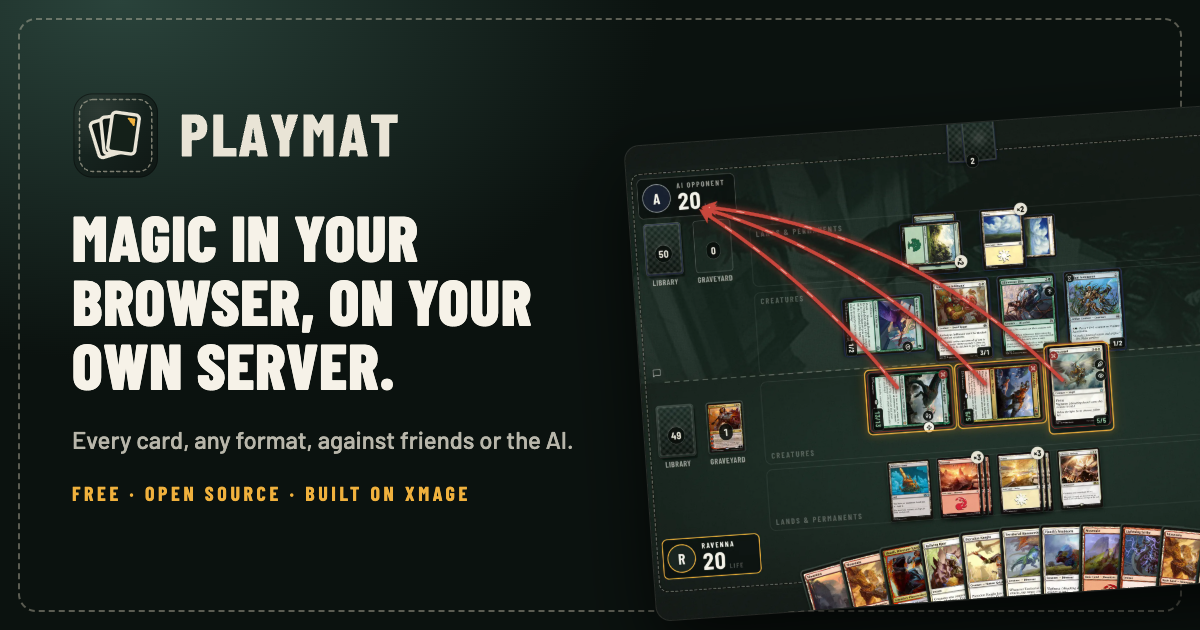
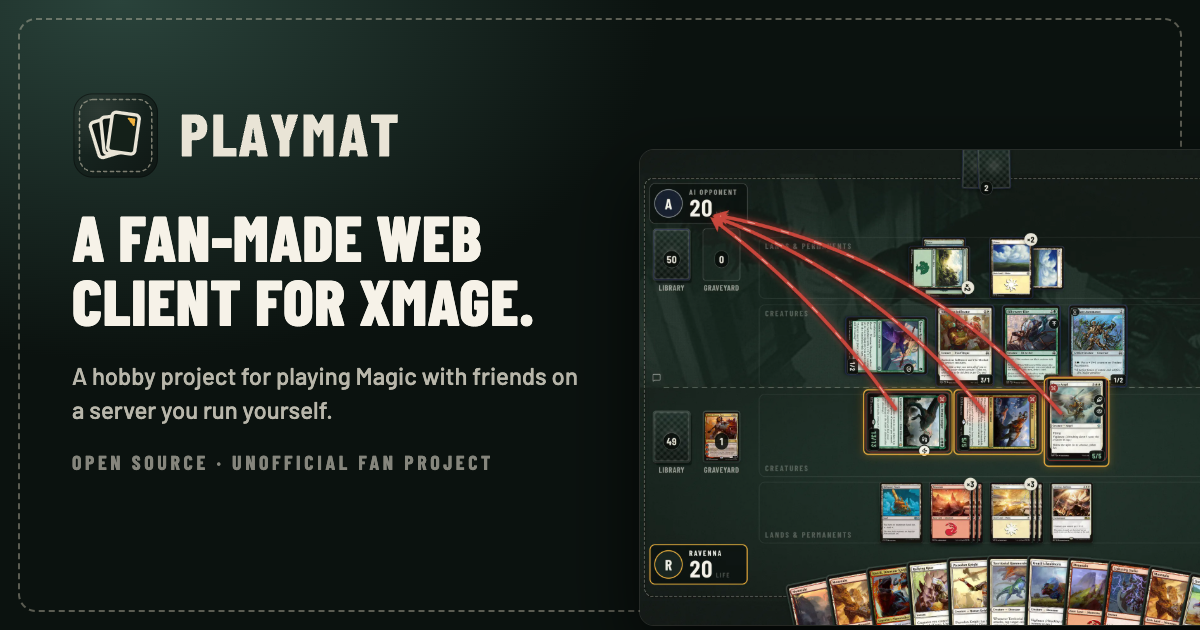
Site and readme: a fan project, not a product
Drop the slogans, calls to action and selling adjectives. The site and the
readme now say plainly what Playmat is (a hobby web client for XMage, not
affiliated with Wizards), what it does, how to run it, and who did the work.
The Career art is described as AI-generated. The share image loses its
slogan too.

Changed region(s): [[0.5242, 0.181, 1.0, 0.9952], [0.0617, 0.3317, 0.4933, 0.8143], [0.5242, 0.6333, 0.6783, 0.8143]]

diff --git a/site/index.html b/site/index.html
@@ -3,13 +3,13 @@
 <head>
   <meta charset="utf-8">
   <meta name="viewport" content="width=device-width, initial-scale=1">
-  <title>Playmat · Magic in your browser, on your own server</title>
-  <meta name="description" content="Playmat is a free, open-source, Arena-style client for the XMage rules engine: every card, any format, against friends or the AI, on a server you host yourself.">
+  <title>Playmat · a fan-made web client for XMage</title>
+  <meta name="description" content="Playmat is a fan-made, open-source web client for XMage, the Magic: The Gathering rules engine. Play against friends or the AI on a server you run yourself.">
   <meta name="theme-color" content="#0b120f">
   <link rel="icon" href="assets/brand/playmat-mark.svg" type="image/svg+xml">
   <meta property="og:type" content="website">
-  <meta property="og:title" content="Playmat · Magic in your browser, on your own server">
-  <meta property="og:description" content="An Arena-style client for the XMage rules engine: every card, any format, against friends or the AI. Free and self-hosted.">
+  <meta property="og:title" content="Playmat · a fan-made web client for XMage">
+  <meta property="og:description" content="A hobby project: a browser client for XMage, styled after MTG Arena, for playing with friends on your own server.">
   <meta property="og:url" content="https://arcanite24.github.io/playmat/">
   <meta property="og:image" content="https://arcanite24.github.io/playmat/assets/og.png">
   <meta name="twitter:card" content="summary_large_image">
@@ -28,10 +28,10 @@
       </a>
       <nav aria-label="Sections">
         <ul class="nav">
-          <li><a href="#play">Play</a></li>
+          <li><a href="#play">Playing</a></li>
           <li><a href="#career">Career</a></li>
-          <li><a href="#host">Host</a></li>
-          <li><a class="btn btn-print btn-sm" href="https://github.com/arcanite24/playmat">GitHub</a></li>
+          <li><a href="#host">Running it</a></li>
+          <li><a href="https://github.com/arcanite24/playmat">GitHub</a></li>
         </ul>
       </nav>
     </div>
@@ -40,13 +40,12 @@
   <main id="main">
     <section class="hero">
       <div class="wrap hero-copy">
-        <h1>Magic in your browser, on&nbsp;your own server.</h1>
-        <p class="lede">Playmat is an Arena-style client for the XMage rules engine. Play any of its 32,000+ cards in any
-          format against your friends or the AI, and host the whole table yourself. Free and MIT licensed.</p>
-        <div class="actions">
-          <a class="btn btn-decision" href="#host">Host your table</a>
-          <a class="btn btn-print" href="https://github.com/arcanite24/playmat">View on GitHub</a>
-        </div>
+        <h1>A fan-made web client for&nbsp;XMage.</h1>
+        <p class="lede">Playmat is a hobby project: a browser client for <a href="https://github.com/magefree/mage">XMage</a>,
+          the open-source Magic: The Gathering rules engine, styled after MTG Arena. You play against friends or XMage's
+          AI on a server you run yourself. It's free, MIT licensed, and not affiliated with Wizards of the Coast.</p>
+        <p class="status">It's a work in progress with rough edges. Bug reports and pull requests are welcome on
+          <a href="https://github.com/arcanite24/playmat">GitHub</a>.</p>
       </div>
       <div class="wrap">
         <figure class="hero-shot shot">
@@ -60,14 +59,15 @@
     <section id="play" class="feature">
       <div class="wrap feature-row">
         <div class="feature-copy">
-          <h2>One click from intent to play.</h2>
-          <p>Pick a deck and press Play. You're in a game against the AI in seconds, or send a friend an invite link and
-            sit down together. Nobody has to learn a table system first.</p>
+          <h2>Playing</h2>
+          <p>Pick a deck and press Play to start a game against the AI, or send a friend an invite link to play each
+            other.</p>
           <ul class="ticks">
             <li>Attack arrows, a visible stack and priority you can read at a glance</li>
-            <li>Smart auto-pass with stops you choose, and keyboard shortcuts</li>
+            <li>Auto-pass with the stops you choose, and keyboard shortcuts</li>
             <li>Practice mode: a goldfish opponent and any card into your hand or onto the battlefield</li>
             <li>Spectating, match history and replays of finished games</li>
+            <li>Visible keyboard focus, reduced motion respected, and no state shown by colour alone</li>
           </ul>
         </div>
         <figure class="shot">
@@ -80,11 +80,11 @@
     <section id="decks" class="feature">
       <div class="wrap feature-row flip">
         <div class="feature-copy">
-          <h2>Bring the decks you already have.</h2>
-          <p>Paste a link from Archidekt, Moxfield or another deck site, drop a list or a <code>.dck</code> file, and
-            it's on your shelf. Starter decks are waiting from the first sign-in, Commander ones included.</p>
+          <h2>Decks</h2>
+          <p>Decks come in from a link (Archidekt, Moxfield and other sites), a pasted list or a <code>.dck</code> file.
+            Every new account gets a set of starter decks, Commander ones included.</p>
           <ul class="ticks">
-            <li>Full card search by name, type, rules text, colour, cost, rarity and set</li>
+            <li>Card search by name, type, rules text, colour, cost, rarity and set</li>
             <li>Format checks, a mana curve and colour counts as you build</li>
             <li>Booster draft, sealed, Jumpstart and constructed events, with AI players in empty seats</li>
           </ul>
@@ -99,9 +99,9 @@
     <section id="career" class="career">
       <div class="wrap">
         <div class="career-head">
-          <h2>A journey for one player, with a whole card pool to earn.</h2>
-          <p>Start with a starter deck and a hundred coins. Win duels, open packs, fill your collection and graduate from
-            every format's school.</p>
+          <h2>Career mode</h2>
+          <p>An optional single-player mode. You start with a starter deck and a hundred coins, win games against the AI,
+            open packs to build a collection, and work through a school for each format.</p>
         </div>
 
         <div class="career-shots">
@@ -154,7 +154,7 @@
             <img src="assets/art/ach-graduate-9.webp" width="192" height="192" loading="lazy" alt="Achievement: graduate of every school">
             <img src="assets/art/ach-wins-250.webp" width="192" height="192" loading="lazy" alt="Achievement: 250 wins">
           </div>
-          <p class="gallery-note">61 achievements, boss portraits, school crests and sleeves, all painted for Playmat.</p>
+          <p class="gallery-note">The Career art (boss portraits, format crests, achievement icons and sleeves) is AI-generated for the project in one letterpress style.</p>
         </div>
       </div>
     </section>
@@ -166,9 +166,9 @@
                alt="The same game on a tablet in portrait: the board stacks vertically with the turn tracker across the middle.">
         </figure>
         <div class="feature-copy">
-          <h2>The same table on a tablet.</h2>
-          <p>The table reflows from a wide monitor down to a tablet in portrait. Install it as a web app, or build the
-            Android app, which keeps every card picture it has shown on the device for the next game.</p>
+          <h2>Tablets and Android</h2>
+          <p>The table reflows from a wide monitor down to a tablet in portrait. It installs as a web app, and there's
+            an Android app built from the same code that keeps card pictures on the device.</p>
           <ul class="ticks">
             <li>Any modern desktop browser</li>
             <li>Tablets in landscape and portrait, fullscreen when installed</li>
@@ -181,14 +181,14 @@
 
     <section class="more">
       <div class="wrap">
-        <h2 class="center">And everything XMage already does.</h2>
+        <h2 class="center">From XMage</h2>
+        <p class="center more-intro">Playmat is a new client, not a new engine. All of this comes from XMage:</p>
         <dl class="also">
           <div><dt>Multiplayer</dt><dd>Commander, Brawl, Oathbreaker and free-for-all games for up to ten players.</dd></div>
           <div><dt>Tournaments</dt><dd>Swiss or elimination events with drafting, sealed pools and sideboarding.</dd></div>
           <div><dt>Lobby</dt><dd>Chat, players online, profiles and a table browser to join or watch any game.</dd></div>
-          <div><dt>Rules on the server</dt><dd>Every rule and every hidden card is enforced server-side. A client can't cheat.</dd></div>
+          <div><dt>Rules on the server</dt><dd>Rules and hidden cards are handled on the server, so a client can't cheat.</dd></div>
           <div><dt>Accounts</dt><dd>Optional sign-up with passwords, ratings, moderation and admin tools for public servers.</dd></div>
-          <div><dt>Accessible</dt><dd>Visible focus, reduced motion respected, and state never shown by colour alone.</dd></div>
         </dl>
       </div>
     </section>
@@ -196,9 +196,9 @@
     <section id="host" class="host">
       <div class="wrap host-row">
         <div class="host-copy">
-          <h2>Host it on any machine with Docker.</h2>
-          <p>One Docker Compose stack runs everything. Point a domain at the machine, set a few values and start it.
-            Players open the site and sign in; nobody installs anything.</p>
+          <h2>Running it</h2>
+          <p>Playmat is meant to be self-hosted. Someone in your group runs the server with Docker Compose, on a home
+            machine for a LAN or on one with a domain, and everyone else opens the site in a browser.</p>
           <dl class="stack">
             <div><dt>xmage</dt><dd>the game server and its WebSocket bridge</dd></div>
             <div><dt>web</dt><dd>Caddy: automatic HTTPS, security headers, rate limits</dd></div>
@@ -207,7 +207,7 @@
           </dl>
           <p class="small">Also covered: private LAN servers with no domain, running behind another reverse proxy, Discord
             notifications for new tables, and capacity numbers.
-            <a href="https://github.com/arcanite24/playmat/blob/master/ops/web/README.md">Read the deployment guide</a>.</p>
+            See the <a href="https://github.com/arcanite24/playmat/blob/master/ops/web/README.md">deployment guide</a>.</p>
         </div>
         <div class="terminal" role="region" aria-label="Commands to start a server">
 <pre><code><span class="c"># get the code</span>
@@ -227,10 +227,10 @@ docker compose -f ops/web/docker-compose.yml up -d --build</code></pre>
       <div class="wrap xmage-box zone">
         <img src="assets/brand/playmat-mark.svg" width="72" height="72" alt="">
         <div>
-          <h2>Built on XMage.</h2>
-          <p>The rules engine, tens of thousands of card implementations and the AI are the work of the XMage project and
-            its contributors since 2010. Playmat merges XMage every month, so new sets and fixes arrive here too.
-            Card pictures and data come from Scryfall.</p>
+          <h2>Credits</h2>
+          <p>The rules engine, the card implementations and the AI are the work of the XMage project and its
+            contributors since 2010; Playmat merges XMage regularly to pick up new sets and fixes. Card pictures and data
+            come from Scryfall. Magic: The Gathering belongs to Wizards of the Coast.</p>
           <p><a href="https://github.com/magefree/mage">XMage on GitHub</a> · <a href="https://scryfall.com">Scryfall</a></p>
         </div>
       </div>

diff --git a/site/style.css b/site/style.css
@@ -3,7 +3,6 @@
   --decision: #f0b13d;
   --decision-strong: #ffc65a;
   --decision-ink: #1d1406;
-  --decision-glow: rgb(240 177 61 / 0.35);
   --ink: #e9e4d6;
   --ink-strong: #f6f2e8;
   --ink-soft: rgb(233 228 214 / 0.78);
@@ -88,7 +87,7 @@ h1, h2, h3 {
   text-wrap: balance;
 }
 
-h1 { font-size: clamp(2.75rem, 7vw, 5.6rem); }
+h1 { font-size: clamp(2.4rem, 5.6vw, 4.4rem); }
 h2 { font-size: clamp(2rem, 4.2vw, 3.25rem); }
 h3 { font-size: 1.35rem; font-weight: 700; letter-spacing: 0.04em; }
 
@@ -110,39 +109,6 @@ p { margin: 0; text-wrap: pretty; }
 }
 .skip:focus { top: 12px; }
 
-/* ---------- buttons ---------- */
-
-.btn {
-  display: inline-flex;
-  align-items: center;
-  justify-content: center;
-  height: 52px;
-  padding: 0 26px;
-  border-radius: var(--radius-control);
-  font: 700 1.2rem/1 var(--font-print);
-  letter-spacing: 0.08em;
-  text-transform: uppercase;
-  text-decoration: none;
-  white-space: nowrap;
-  transition: transform 120ms ease, box-shadow 120ms ease, background-color 120ms linear;
-}
-
-.btn-decision {
-  background: linear-gradient(180deg, var(--decision-strong), var(--decision));
-  color: var(--decision-ink);
-  box-shadow: inset 0 1px 0 rgb(255 255 255 / 0.45), inset 0 -2px 0 rgb(0 0 0 / 0.18), 0 0 0 1px rgb(0 0 0 / 0.35), 0 10px 24px -8px rgb(0 0 0 / 0.6);
-}
-.btn-decision:hover { transform: translateY(-1px); box-shadow: inset 0 1px 0 rgb(255 255 255 / 0.5), 0 0 0 1px rgb(0 0 0 / 0.35), 0 0 0 6px var(--decision-glow), 0 14px 30px -8px rgb(0 0 0 / 0.6); }
-
-.btn-print {
-  background: rgb(233 228 214 / 0.04);
-  color: var(--ink);
-  box-shadow: inset 0 0 0 1.5px var(--ink-faint);
-}
-.btn-print:hover { background: rgb(233 228 214 / 0.09); box-shadow: inset 0 0 0 1.5px var(--ink-soft); }
-
-.btn-sm { height: 36px; padding: 0 14px; font-size: 1rem; }
-
 /* ---------- header ---------- */
 
 .top {
@@ -157,14 +123,14 @@ p { margin: 0; text-wrap: pretty; }
 .brand img { height: 40px; width: auto; }
 
 .nav { display: flex; align-items: center; gap: 28px; list-style: none; margin: 0; padding: 0; }
-.nav a:not(.btn) {
+.nav a {
   font: 700 1rem/1 var(--font-print);
   letter-spacing: 0.14em;
   text-transform: uppercase;
   color: var(--ink-dim);
   text-decoration: none;
 }
-.nav a:not(.btn):hover { color: var(--ink-strong); }
+.nav a:hover { color: var(--ink-strong); }
 
 /* ---------- hero ---------- */
 
@@ -172,9 +138,9 @@ p { margin: 0; text-wrap: pretty; }
 .hero-copy { text-align: center; display: grid; justify-items: center; gap: 22px; }
 .hero h1 { max-width: 22ch; }
 .lede { max-width: 62ch; font-size: 1.2rem; color: var(--ink-soft); }
-.actions { display: flex; flex-wrap: wrap; justify-content: center; gap: 14px; margin-top: 6px; }
+.status { max-width: 62ch; color: var(--ink-dim); font-size: 0.98rem; }
 
-.hero .hero-shot { margin-top: 56px; }
+.hero .hero-shot { margin-top: 48px; }
 
 /* ---------- screenshots ---------- */
 
@@ -215,17 +181,14 @@ p { margin: 0; text-wrap: pretty; }
 .feature-copy > p { color: var(--ink-soft); font-size: 1.08rem; }
 
 .ticks { list-style: none; padding: 0; margin: 4px 0 0; display: grid; gap: 10px; }
-.ticks li { position: relative; padding-left: 28px; color: var(--ink-soft); }
+.ticks li { position: relative; padding-left: 22px; color: var(--ink-soft); }
 .ticks li::before {
   content: '';
   position: absolute;
   left: 2px;
-  top: 0.5em;
-  width: 12px;
-  height: 7px;
-  border-left: 2px solid var(--decision);
-  border-bottom: 2px solid var(--decision);
-  transform: rotate(-45deg);
+  top: 0.78em;
+  width: 10px;
+  border-top: 1.5px dashed var(--thread);
 }
 
 .tablet-row { grid-template-columns: minmax(0, 4fr) minmax(0, 6fr); }
@@ -277,7 +240,8 @@ p { margin: 0; text-wrap: pretty; }
 /* ---------- more ---------- */
 
 .more { padding: 112px 0 0; }
-.also { max-width: 880px; margin-inline: auto; margin-top: 48px; border-top: 1.5px dashed var(--thread); }
+.more-intro { color: var(--ink-soft); margin-top: 14px; }
+.also { max-width: 880px; margin-inline: auto; margin-top: 36px; border-top: 1.5px dashed var(--thread); }
 .also > div { grid-template-columns: minmax(0, 13rem) minmax(0, 1fr); padding: 20px 0; }
 
 /* ---------- host ---------- */
@@ -336,7 +300,6 @@ p { margin: 0; text-wrap: pretty; }
   .nav li:not(:last-child) { display: none; }
   .brand img { height: 32px; }
   .hero { padding-top: 56px; }
-  .btn { height: 48px; padding: 0 20px; font-size: 1.08rem; }
   .modes > div, .also > div { grid-template-columns: minmax(0, 1fr); gap: 4px; }
   .feature, .more, .host, .xmage { padding-top: 72px; }
   .career { margin-top: 80px; padding: 72px 0; }
@@ -346,5 +309,4 @@ p { margin: 0; text-wrap: pretty; }
 
 @media (prefers-reduced-motion: reduce) {
   html { scroll-behavior: auto; }
-  .btn { transition: none; }
 }

diff --git a/readme.md b/readme.md
@@ -6,13 +6,13 @@
 </p>
 
 <p align="center">
-  <b>Magic in your browser, on your own server.</b><br>
-  An Arena-style client for the XMage rules engine: every card, any format, against your friends or the AI.
+  A fan-made web client for <a href="https://github.com/magefree/mage">XMage</a>, the open-source Magic: The Gathering
+  rules engine. A hobby project, not affiliated with Wizards of the Coast.
 </p>
 
 <p align="center">
   <a href="https://arcanite24.github.io/playmat/">Website</a> ·
-  <a href="#host-your-own-table">Host a server</a> ·
+  <a href="#running-a-server">Run a server</a> ·
   <a href="#run-it-locally">Run it locally</a> ·
   <a href="docs/WebSocketAPI.md">WebSocket API</a>
 </p>
@@ -27,31 +27,30 @@
 
 ## What it is
 
-[XMage](https://github.com/magefree/mage) has the most complete open-source rules engine for Magic: over 32,000 cards,
-every format, AI opponents, drafts and tournaments. Its desktop client still looks and plays like 2010.
+Playmat is a fork of [XMage](https://github.com/magefree/mage), the open-source Magic rules engine with its cards, AI
+opponents, drafts and tournaments. It adds a WebSocket bridge to the server and a browser client styled after MTG
+Arena, so a group of friends can play on a server one of them runs. The engine stays XMage, merged from upstream
+regularly, so the cards it supports work here too.
 
-Playmat is a fork of XMage. It adds a WebSocket bridge to the server and a new browser client built around how people
-play today: Arena-style interaction with its own look, a printed neoprene mat with ivory ink and one amber button for
-the decision in front of you. The engine stays XMage, merged from upstream every month, so every card it supports
-works here.
+It's a work in progress with rough edges. Bug reports and pull requests are welcome.
 
 ## Features
 
-- **One click to a game.** Pick a deck and play the AI, or send a friend an invite link. Practice mode gives you a
+- **Playing.** Pick a deck and play the AI, or send a friend an invite link. Practice mode gives you a
   goldfish opponent and tools to put any card in hand or on the battlefield.
-- **A board you can read mid-combat.** Attack arrows, a visible stack, clear priority and smart auto-pass with stops
-  you control, and keyboard shortcuts for passing and answering.
-- **Bring your decks.** A deck builder with full card search, and an import sheet that takes a link from Archidekt,
+- **The board.** Attack arrows, a visible stack, priority shown on the table, auto-pass with the stops you choose, and
+  keyboard shortcuts for passing and answering.
+- **Decks.** A deck builder with card search, and an import sheet that takes a link from Archidekt,
   Moxfield and other deck sites, a pasted list or a `.dck` file. Starter decks are there from the first sign-in,
   Commander ones included.
 - **Events.** Booster draft, sealed, Jumpstart and constructed tournaments. Empty seats fill with AI players.
-- **Career.** A single-player journey: five colour campaigns with a boss at the end of each, an Academy with a school
+- **Career.** An optional single-player mode: five colour campaigns with a boss at the end of each, an Academy with a school
   for every format, puzzles, a gauntlet, sealed and draft runs, a weekly challenge, booster packs to open, a collection
-  to craft into and 61 achievements, all with painted art.
+  to craft into and achievements, illustrated with AI-generated art.
 - **Social.** Lobby chat, players online, profiles, a table browser, spectating, match history and replays.
-- **Everywhere you play.** Desktop browsers, tablets, an installable web app and an Android app that keeps card
+- **Devices.** Desktop browsers, tablets, an installable web app and an Android app that keeps card
   pictures on the device. English and Spanish.
-- **Yours to host.** One Docker Compose stack: the server, Caddy with automatic HTTPS, a Scryfall picture cache,
+- **Hosting.** One Docker Compose stack: the server, Caddy with automatic HTTPS, a Scryfall picture cache,
   nightly backups and Discord notifications.
 
 <table>
@@ -65,7 +64,7 @@ works here.
   </tr>
 </table>
 
-## Host your own table
+## Running a server
 
 You need Docker and a machine your players can reach.
 
